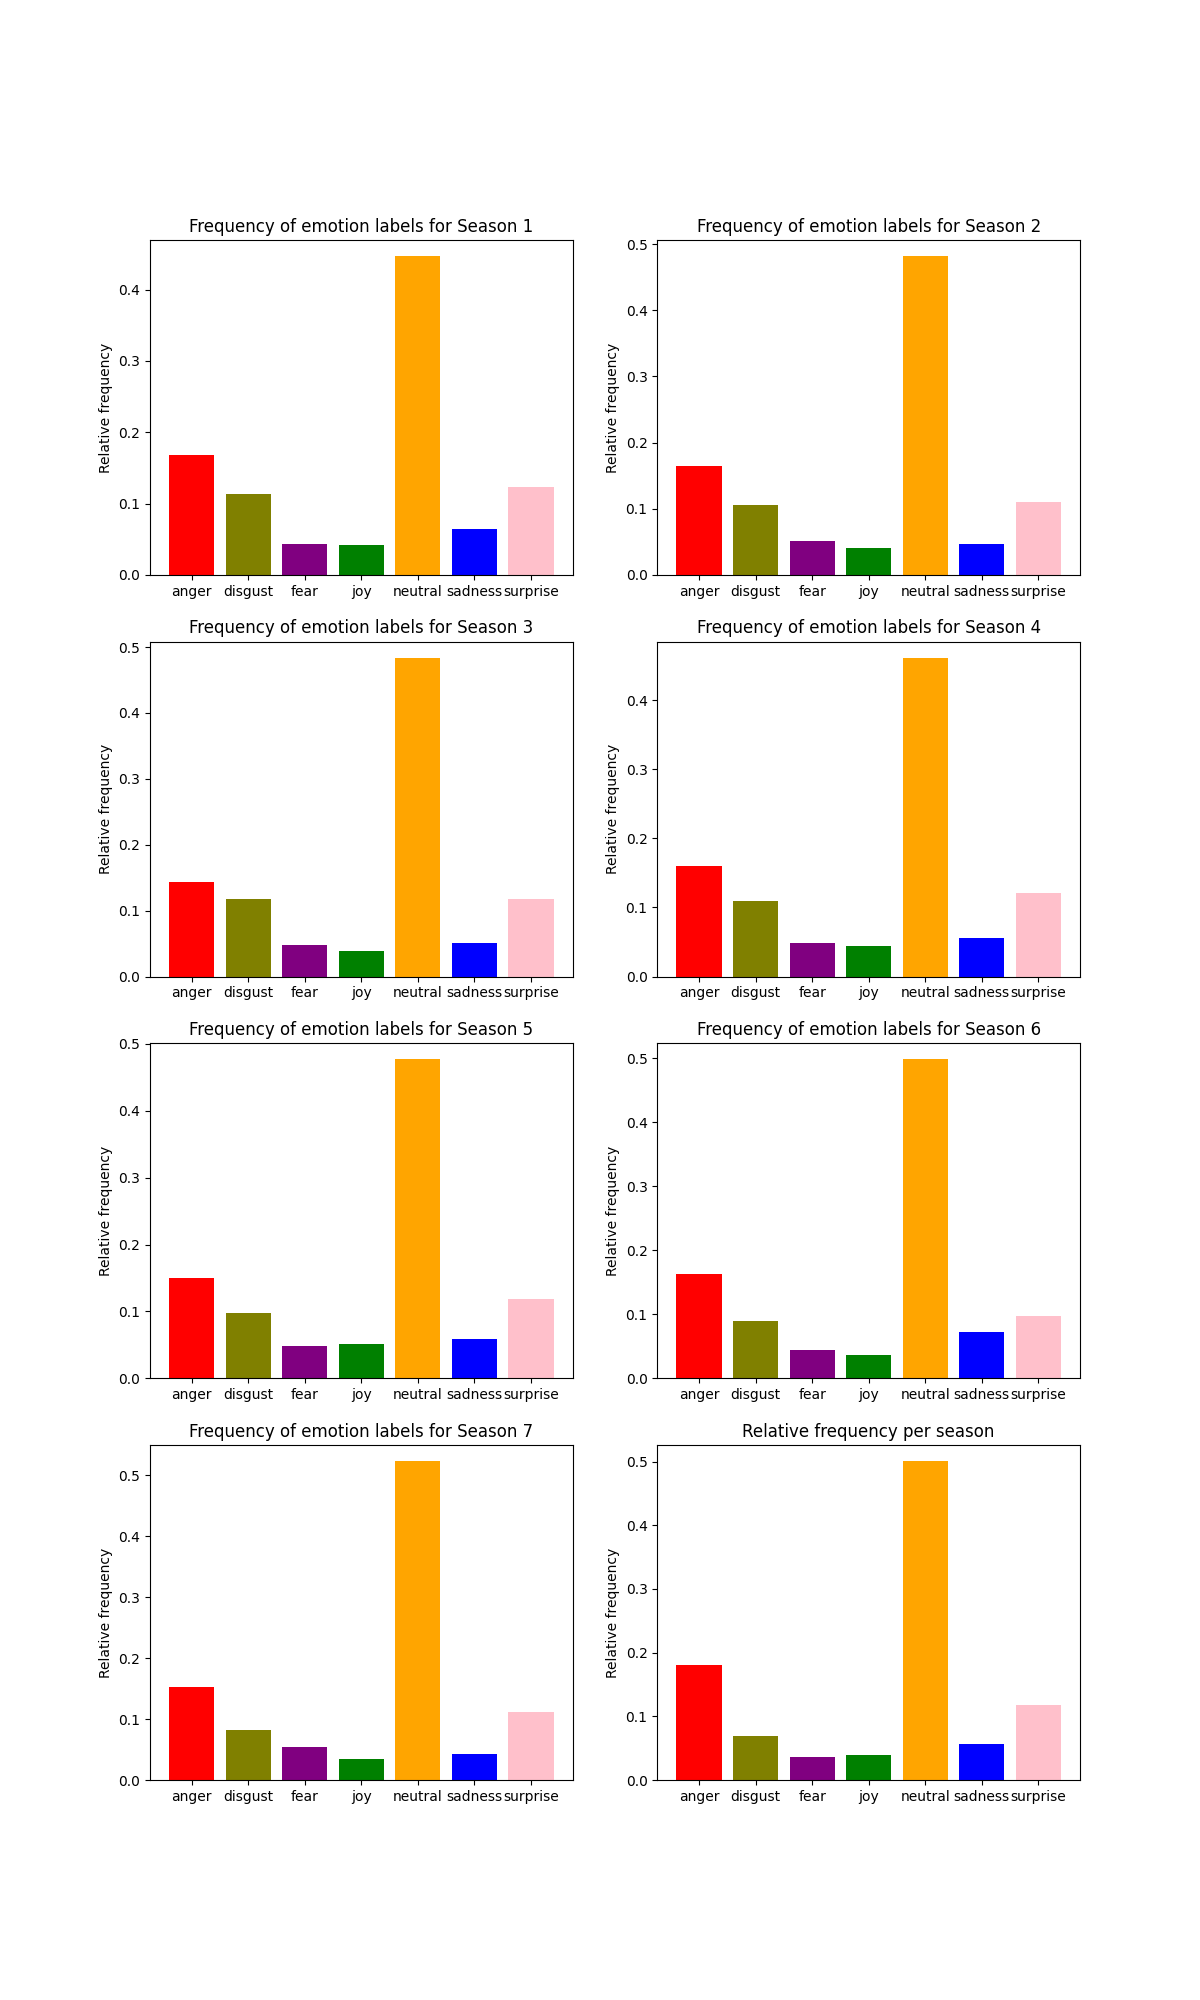
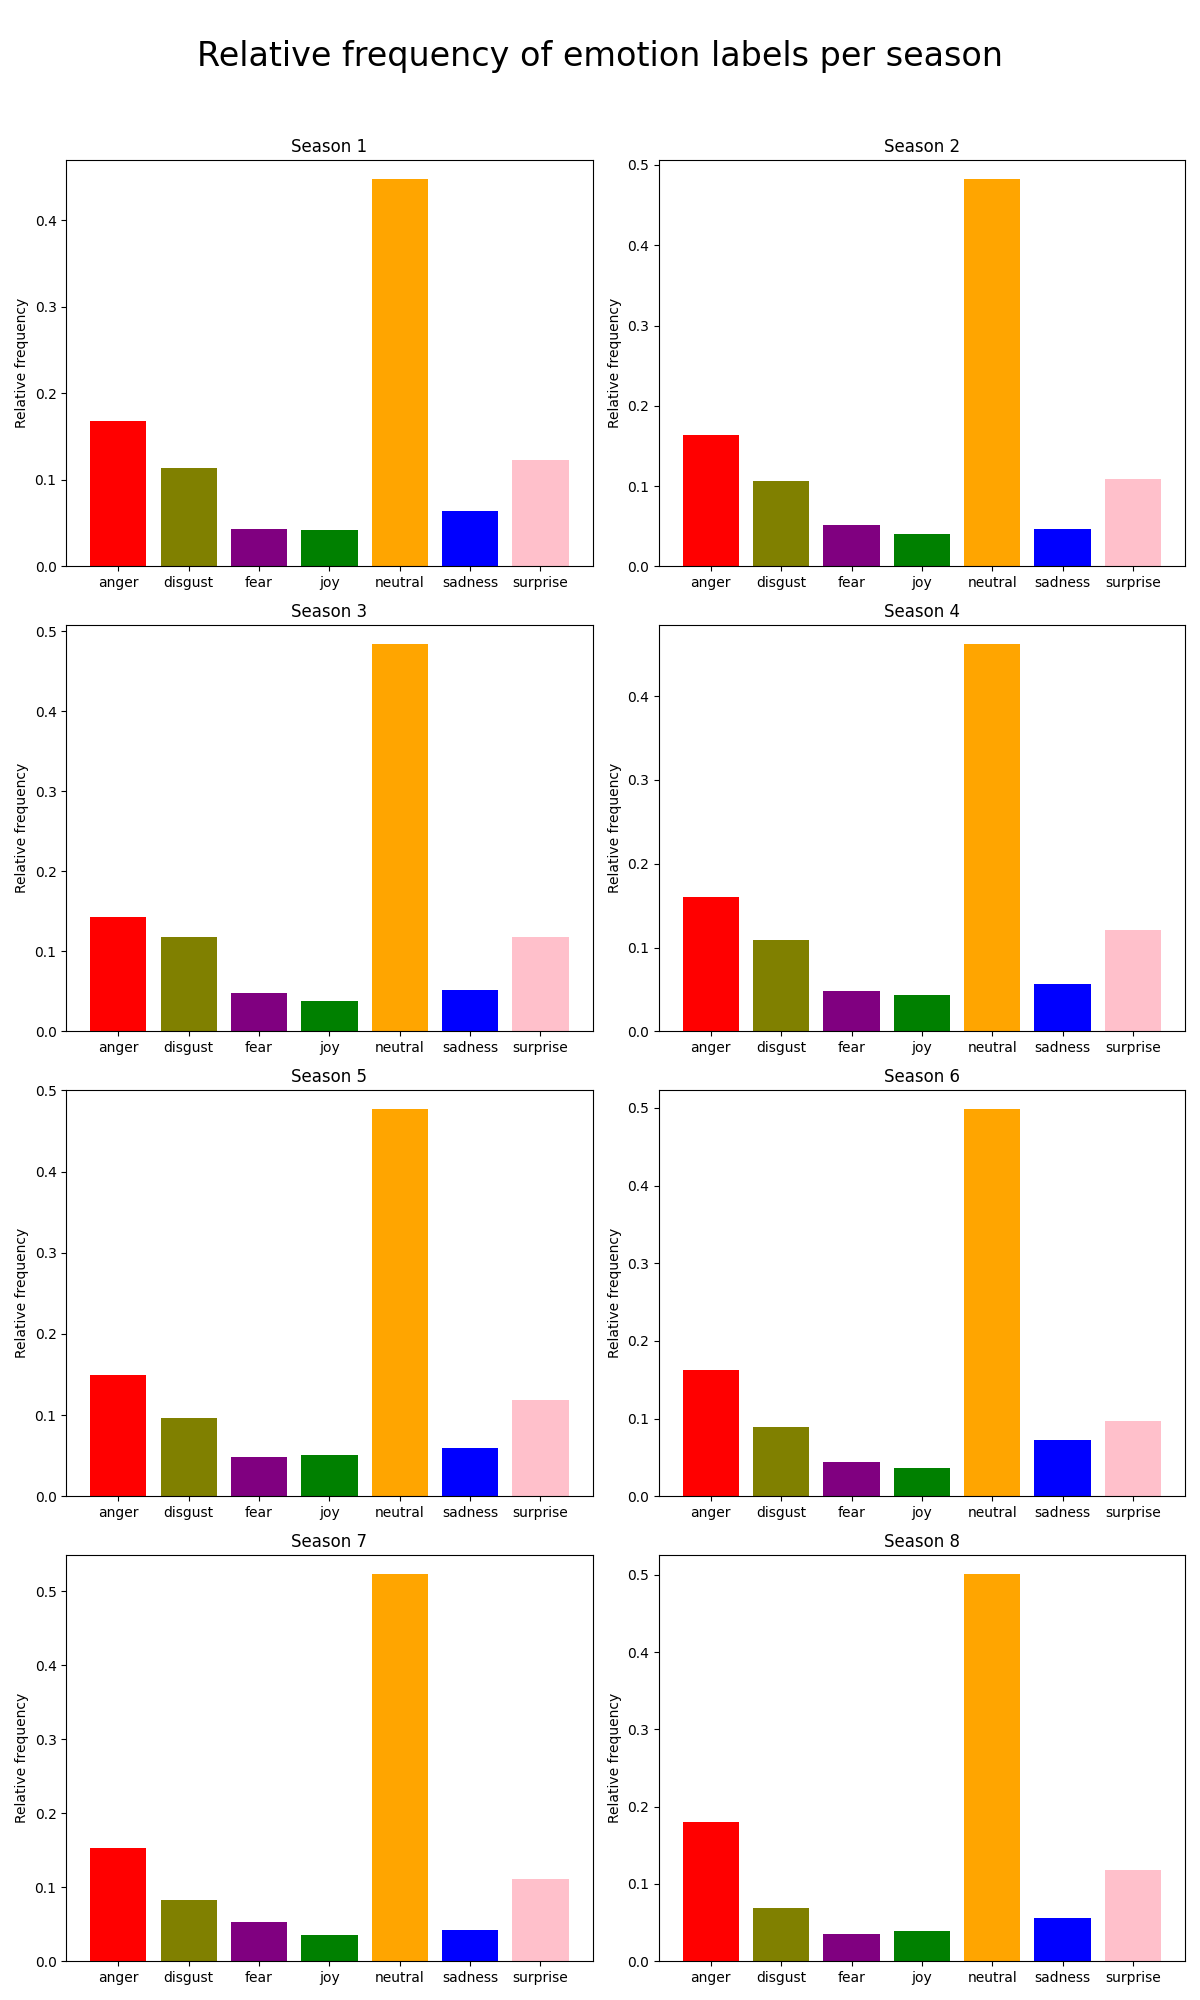
updated scripts + added run

diff --git a/src/plotting.py b/src/plotting.py
@@ -87,15 +87,17 @@ def plot_grid(n_rows, n_cols, frequencies_list, emotion_labels):
     for row in range(n_rows):
         for col in range(n_cols):
                 # plot barplot using relative frequencies
-                axes[i][j].bar(emotion_labels, frequencies_list[n], color=colors)
-                axes[i][j].set_title(f'Frequency of emotion labels for Season {n + 1}')
-                axes[i][j].set_ylabel('Relative frequency')
+                axes[row][col].bar(emotion_labels, frequencies_list[n], color=colors)
+                axes[row][col].set_title(f'Season {n + 1}')
+                axes[row][col].set_ylabel('Relative frequency')
 
                 # add 1 to the 'season' variable to plot the next season in the next grid-space
                 n += 1 
     
     # add title and save in /out folder
-    plt.title('Relative frequency per season')
+    fig.suptitle('Relative frequency of emotion labels per season', size=24)
+    fig.tight_layout()
+    fig.subplots_adjust(top=0.92)
     plt.savefig('out/frequency_per_season.png')
 
 def plot_seasons_freq(labelled_df):

diff --git a/src/classify_emotions.py b/src/classify_emotions.py
@@ -50,7 +50,7 @@ def classify_emotions(df):
     labels = []
     score = []
 
-    # 
+    # classify each sentence in dataset and save labels and scores to list (again, using the recommended method from HuggingFace pipeline documentation for optimal use)
     for out in tqdm(classifier(KeyDataset(dataset, "Sentence"))):
         
         labels.append(out['label'])
